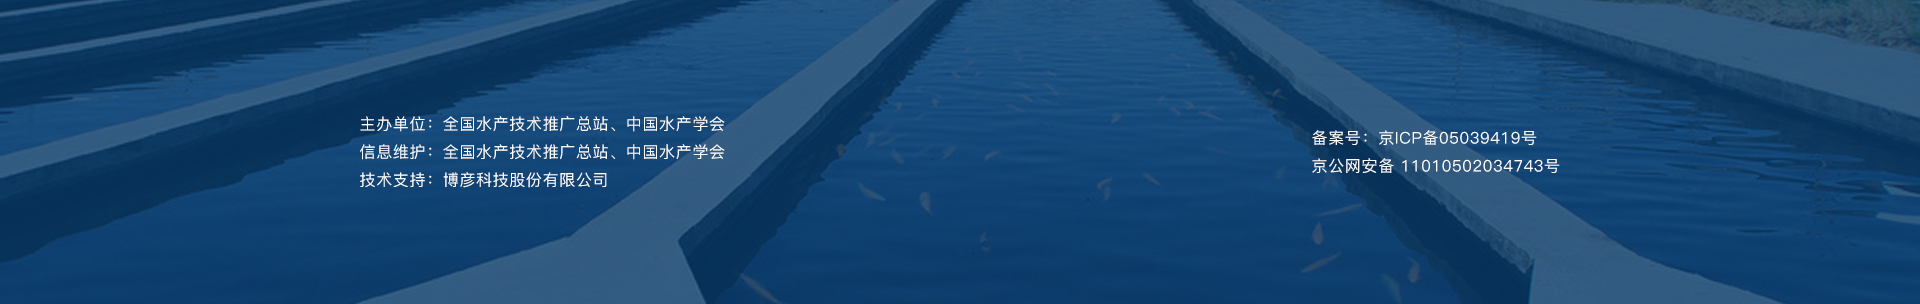
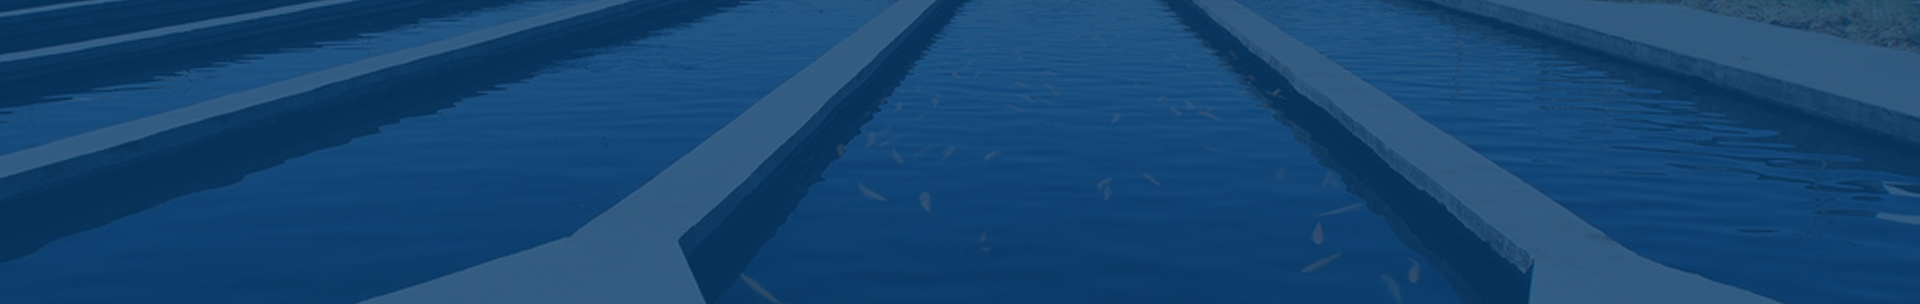
修改首页样式

diff --git a/src/views/frontPublic/views/homePage/components/footer.vue b/src/views/frontPublic/views/homePage/components/footer.vue
@@ -1,20 +1,72 @@
 <template>
-  <a-row
+  <!-- <a-row
     type='flex'
     justify='center'
   >
     <a-col :span='24'>
       <img src="@/assets/images/home/db_bg.jpg" alt="" srcset="" style="width: 100%">
-    </a-col>
-  </a-row>
+    
+   -->
+  <div class="container">
+    <div class="leftBOX">
+      <p>主办单位：全国水产技术推广总站、中国水产学会</p>
+      <p>地址：北京市朝阳区麦子店街18号</p>
+      <p>邮编：100125</p>
+      <p>技术支持：博彦科技股份有限公司</p>
+      <p>京ICP备05039419号</p>
+    </div>
+    <div class="rightBOX">
+      <div class="oneBOX">
+        <img src="@/assets/images/home/15cm-1m.jpg" />
+        <p>“智能渔技” 微信小程序</p>
+      </div>
+      <div class="twoBOX">
+        <img src="@/assets/images/home/gzh.jpg" />
+        <p>“中国水产” 微信公众号</p>
+      </div>
+    </div>
+  </div>
 </template>
 
 <script>
-export default {
-  
-}
+export default {}; 
 </script>
 
 <style scoped>
-
+.container {
+  height: 160px;
+  width: 100%;
+  background: url("../../../../../assets/images/home/db_bg.jpg") no-repeat
+    center;
+  display: flex;
+  padding-right: 19%;
+}
+.leftBOX {
+  flex: 1;
+  /* margin-left: 100px; */
+  margin-top: 20px;
+}
+.rightBOX {
+  width: 30%;
+  display: flex;
+  justify-content: space-around;
+}
+.oneBOX img, .twoBOX img {
+  margin-top: 20px;
+  width: 100px;
+  height: 100px;
+}
+.container p {
+  font-size: 15px;
+  color: white;
+  margin-top: 6px;
+  line-height: 12px;
+  text-align: left;
+  margin-left: 34%;
+}
+.rightBOX p {
+  font-size: 13px;
+  margin-top: 16px;
+  margin-left: -1px;
+}
 </style>

diff --git a/src/views/frontPublic/views/homePage/components/knowledgeService.vue b/src/views/frontPublic/views/homePage/components/knowledgeService.vue
@@ -356,7 +356,7 @@ export default {
 }
 
 .card-wrapper {
-  height: 400px;
+  height: 360px;
   /* overflow: scroll; */
   overflow: hidden;
   margin: 30px 30px 30px 36px;
@@ -376,10 +376,23 @@ export default {
 }
 
 .content_wrapper {
-  height: 300px;
+  height: 230px;
 }
 
 .noti_oneline {
   height: 30px;
+}
+.ant-row-flex ant-row-flex-center {
+  margin-top: -39px;
+}
+
+.ant-row-flex ant-row-flex-center {
+  height: 380px;
+}
+.ant-card-body {
+  height: 350px;
+}
+.ant-col ant-col-12{
+  height: 340px;
 }
 </style>

diff --git a/src/views/frontPublic/views/homePage/views/home.vue b/src/views/frontPublic/views/homePage/views/home.vue
@@ -35,7 +35,7 @@
           </div>
         </a-carousel>
         <router-view style="background-color: #f1f5f8 " />
-        <Footer />
+        <Footer style="margin-top:-75px"/>
       </a-layout-content>
       <!-- <a-layout-footer>Footer</a-layout-footer> -->
     </a-layout>
@@ -150,6 +150,7 @@ export default {
 }
 
 .InlineWrapper {
+  height: 420px;
   background-color: #fff;
   margin: 0px 150px 0px 150px;
 }

diff --git a/config/index.js b/config/index.js
@@ -31,7 +31,7 @@ module.exports = {
     // Use Eslint Loader?
     // If true, your code will be linted during bundling and
     // linting errors and warnings will be shown in the console.
-    useEslint: true,
+    useEslint: false,
     // If true, eslint errors and warnings will also be shown in the error overlay
     // in the browser.
     showEslintErrorsInOverlay: false,

diff --git a/src/views/frontPublic/views/homePage/components/topicReport.vue b/src/views/frontPublic/views/homePage/components/topicReport.vue
@@ -150,7 +150,7 @@ export default {
 }
 
 .card-wrapper {
-  height: 400px;
+  height: 360px;
   /* overflow: scroll; */
   overflow: hidden;
   margin: 30px 56px 30px 30px;
@@ -171,6 +171,10 @@ export default {
 
 .content_wrapper {
   height: 300px;
+}
+
+.ant-col ant-col-12{
+  height: 400px;
 }
 
 .noti_oneline {
